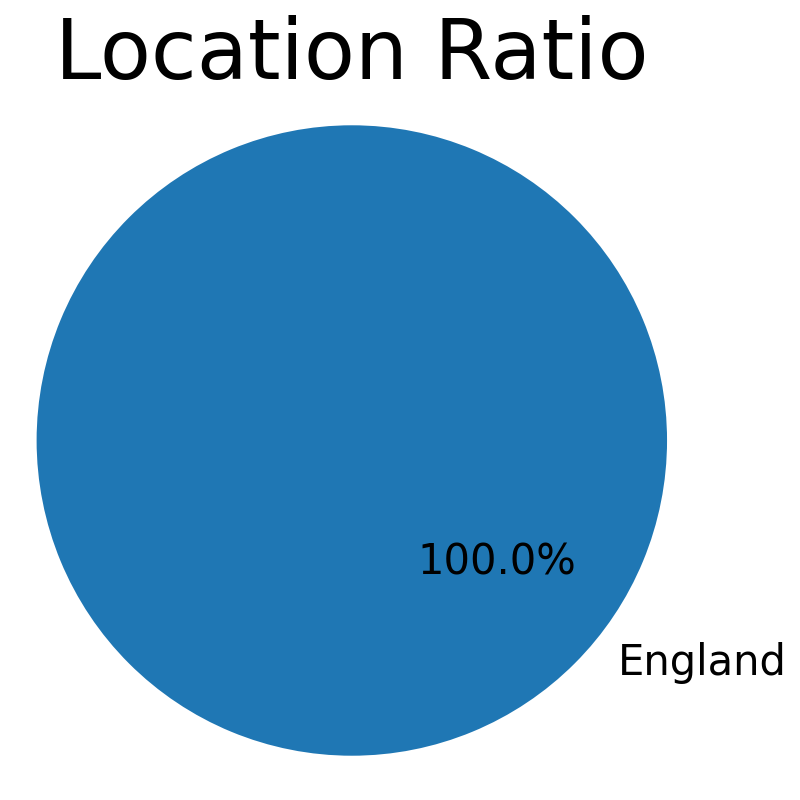
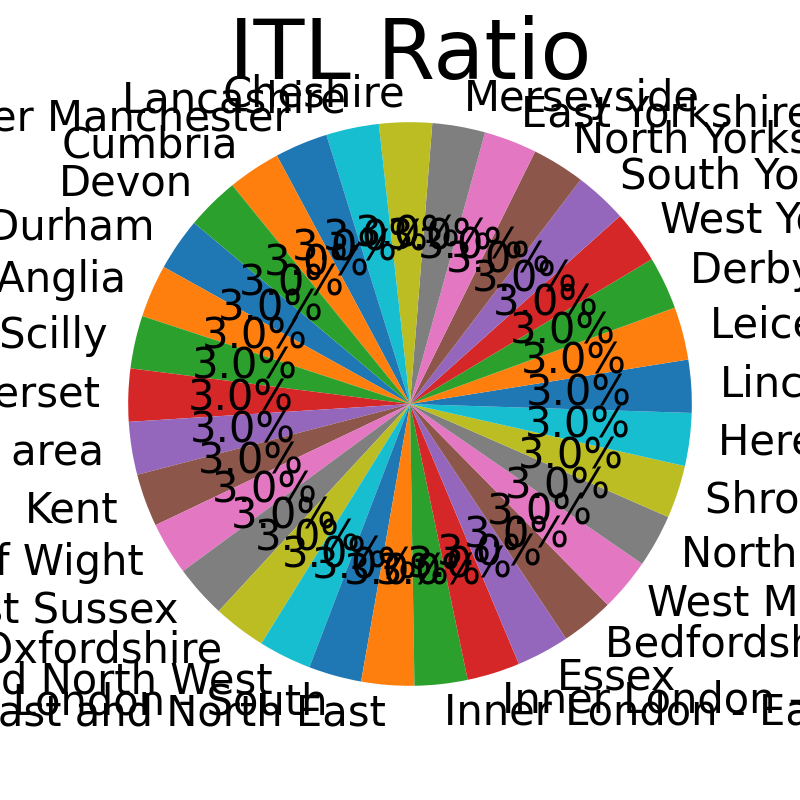
Analytics page fully functional

diff --git a/templates/analytics-page.html b/templates/analytics-page.html
@@ -91,7 +91,7 @@
               <form id="searchForm" action="/analytics" method="POST">
               <div class="location-parent">
                 <div class="table">Location:</div>
-                  <input class = "frame-child7" type="text" name="Country" id="Country" placeholder="Enter Country...">
+                  <input class = "frame-child7" type="text" name="Region" id="Region" placeholder="Enter Region...">
               </div>
               <div class="frame-parent19">
                 <div class="age-wrapper">
@@ -127,13 +127,13 @@
                 <b class="table">Recent Searches</b>
               </div>
               <div class="camden-female-30-41">
-                &gt; Camden Female 30-41 in May 2023: 24326
+                &gt; {{DataToRender[2]}}
               </div>
               <div class="bristol-male-18-25">
-                &gt; Bristol Male 18-25 in Jan 2020: 17632
+                &gt; {{DataToRender[1]}}
               </div>
               <div class="camden-female-30-41">
-                &gt; Leeds Female 20-27 in April 2018: 25626
+                &gt; {{DataToRender[0]}}
               </div>
             </div>
           </div>

diff --git a/DashboardApp.py b/DashboardApp.py
@@ -1,6 +1,9 @@
 from flask import Flask, render_template, request, redirect, url_for, send_file
+from string import capwords
+from collections import deque
 import pandas as pd
 import matplotlib.pyplot as plt
+import calendar
 
 app = Flask(__name__)
 
@@ -12,29 +15,36 @@ def index():
 def account():
     return render_template('account-page.html')
 
+search = deque(["","",""],maxlen=3)
 @app.route('/analytics', methods=['GET', 'POST'])
 def analytics():
+    form = ""
     if request.method == 'POST':
-        df = pd.read_csv('dataset/prepared_ctry.csv',  usecols=lambda col: 'age' in col or col in ['Country', 'extract_date', 'sex'])
-        age_sum = 0
+        df = pd.read_csv('dataset/prepared_itl.csv',  usecols=lambda col: 'age' in col or col in ['Region','ITL', 'extract_date', 'sex'])
         for index,row in df.iterrows():
             df.at[index, 'year'] = int(row['extract_date'].split('-')[0])
-            df.at[index, 'month'] = int(row['extract_date'].split('-')[1])
-        if 'sex' in request.form.keys(): df = df[df['sex'] == request.form['sex']]
-        if 'Country' in request.form.keys(): df = df[df['Country'] == request.form['Country']]
-        if 'year' in request.form.keys(): df = df[df['extract_date'].str.contains(request.form['year'],na=False)]
-        if 'month' in request.form.keys(): df = df[df['extract_date'].str.contains(request.form['month'],na=False)]
-        if 'high-age' in request.form.keys(): high_age = int(request.form['high-age'])
-        else: high_age = 95
-        if 'low-age' in request.form.keys(): low_age = int(request.form['low-age'])
+            df.at[index, 'month'] = calendar.month_name[int(row['extract_date'].split('-')[1])]
+        if 'Region' in request.form.keys():
+            df = df[df['Region'] == capwords(request.form['Region'])]
+            form += request.form['Region']
+        if 'sex' in request.form.keys():
+            df = df[df['sex'] == request.form['sex'].lower()]
+            form += " " + request.form['sex']
+        if 'low-age' in request.form.keys() and int(request.form['low-age'])>0: low_age = int(request.form['low-age'])
         else: low_age = 0
-        for i in range(high_age-low_age+1):
-            age_sum += df[f'age_{i+low_age}']
-        df['age'] = age_sum
-        age_cols_to_keep = [f'age_{i}' for i in range(low_age, high_age + 1)]
-        df = df[['Country', 'sex', 'year', 'month'] + age_cols_to_keep]
-        #df.to_excel(f'newdataset/{request.form}_prepared_ctry.xlsx', index=False)
+        if 'high-age' in request.form.keys() and int(request.form['high-age'])<95: high_age = int(request.form['high-age'])
+        else: high_age = 95
+        form += " " + str(low_age) + "-" + str(high_age)
+        if 'month' in request.form.keys():
+            df = df[df['month'] == request.form['month'].capitalize()]
+            form += " in " + request.form['month']
+        if 'year' in request.form.keys():
+            df = df[df['extract_date'].str.contains(request.form['year'])]
+            form += " " + request.form['year']
+        df.to_excel('static/public/filtered_data.xlsx')
 
+        age_cols_to_keep = [f'age_{i}' for i in range(low_age, high_age + 1)]
+        df = df[['Region','ITL', 'sex', 'year', 'month'] + age_cols_to_keep]
         ####AGE AGAINST YEARS GRAPH####
         # Calculate sum of each age range row
         age_columns = [col for col in df.columns if col.startswith('age_')]
@@ -88,28 +98,28 @@ def analytics():
         plt.savefig('static/public/graph3.png')
 
         ###LOCATION PIE CHART###
-        location_counts = df['Country'].value_counts()
+        location_counts = df['ITL'].value_counts()
 
         # Plotting
         plt.figure(figsize=(8, 8))
         plt.pie(location_counts, labels=location_counts.index, autopct='%1.1f%%', startangle=140,textprops={'fontsize': 30})
-        plt.title('Location Ratio',fontsize=60)
+        plt.title('ITL Ratio',fontsize=60)
         plt.axis('equal')
         plt.tight_layout()
         plt.savefig('static/public/graph4.png')
 
         ###MONTH PIE CHART###
         month_counts = df['month'].value_counts()
-        months = ['January', 'February', 'March', 'April', 'May', 'June', 'July', 'August', 'September', 'October', 'November', 'December']
         # Plotting
         plt.figure(figsize=(8, 8))
-        plt.pie(month_counts, labels=months, autopct='%1.1f%%', startangle=140,textprops={'fontsize': 25})
+        plt.pie(month_counts, labels=month_counts.index, autopct='%1.1f%%', startangle=140,textprops={'fontsize': 25})
         plt.title('Month Ratio',fontsize=60)
         plt.axis('equal')
         plt.tight_layout()
         plt.savefig('static/public/graph5.png')
 
-        return redirect(url_for('analytics'))
+        search.append(form)
+        return render_template('analytics-page.html',DataToRender = search )
     # Render analytics page template
     return render_template('analytics-page.html')
 
